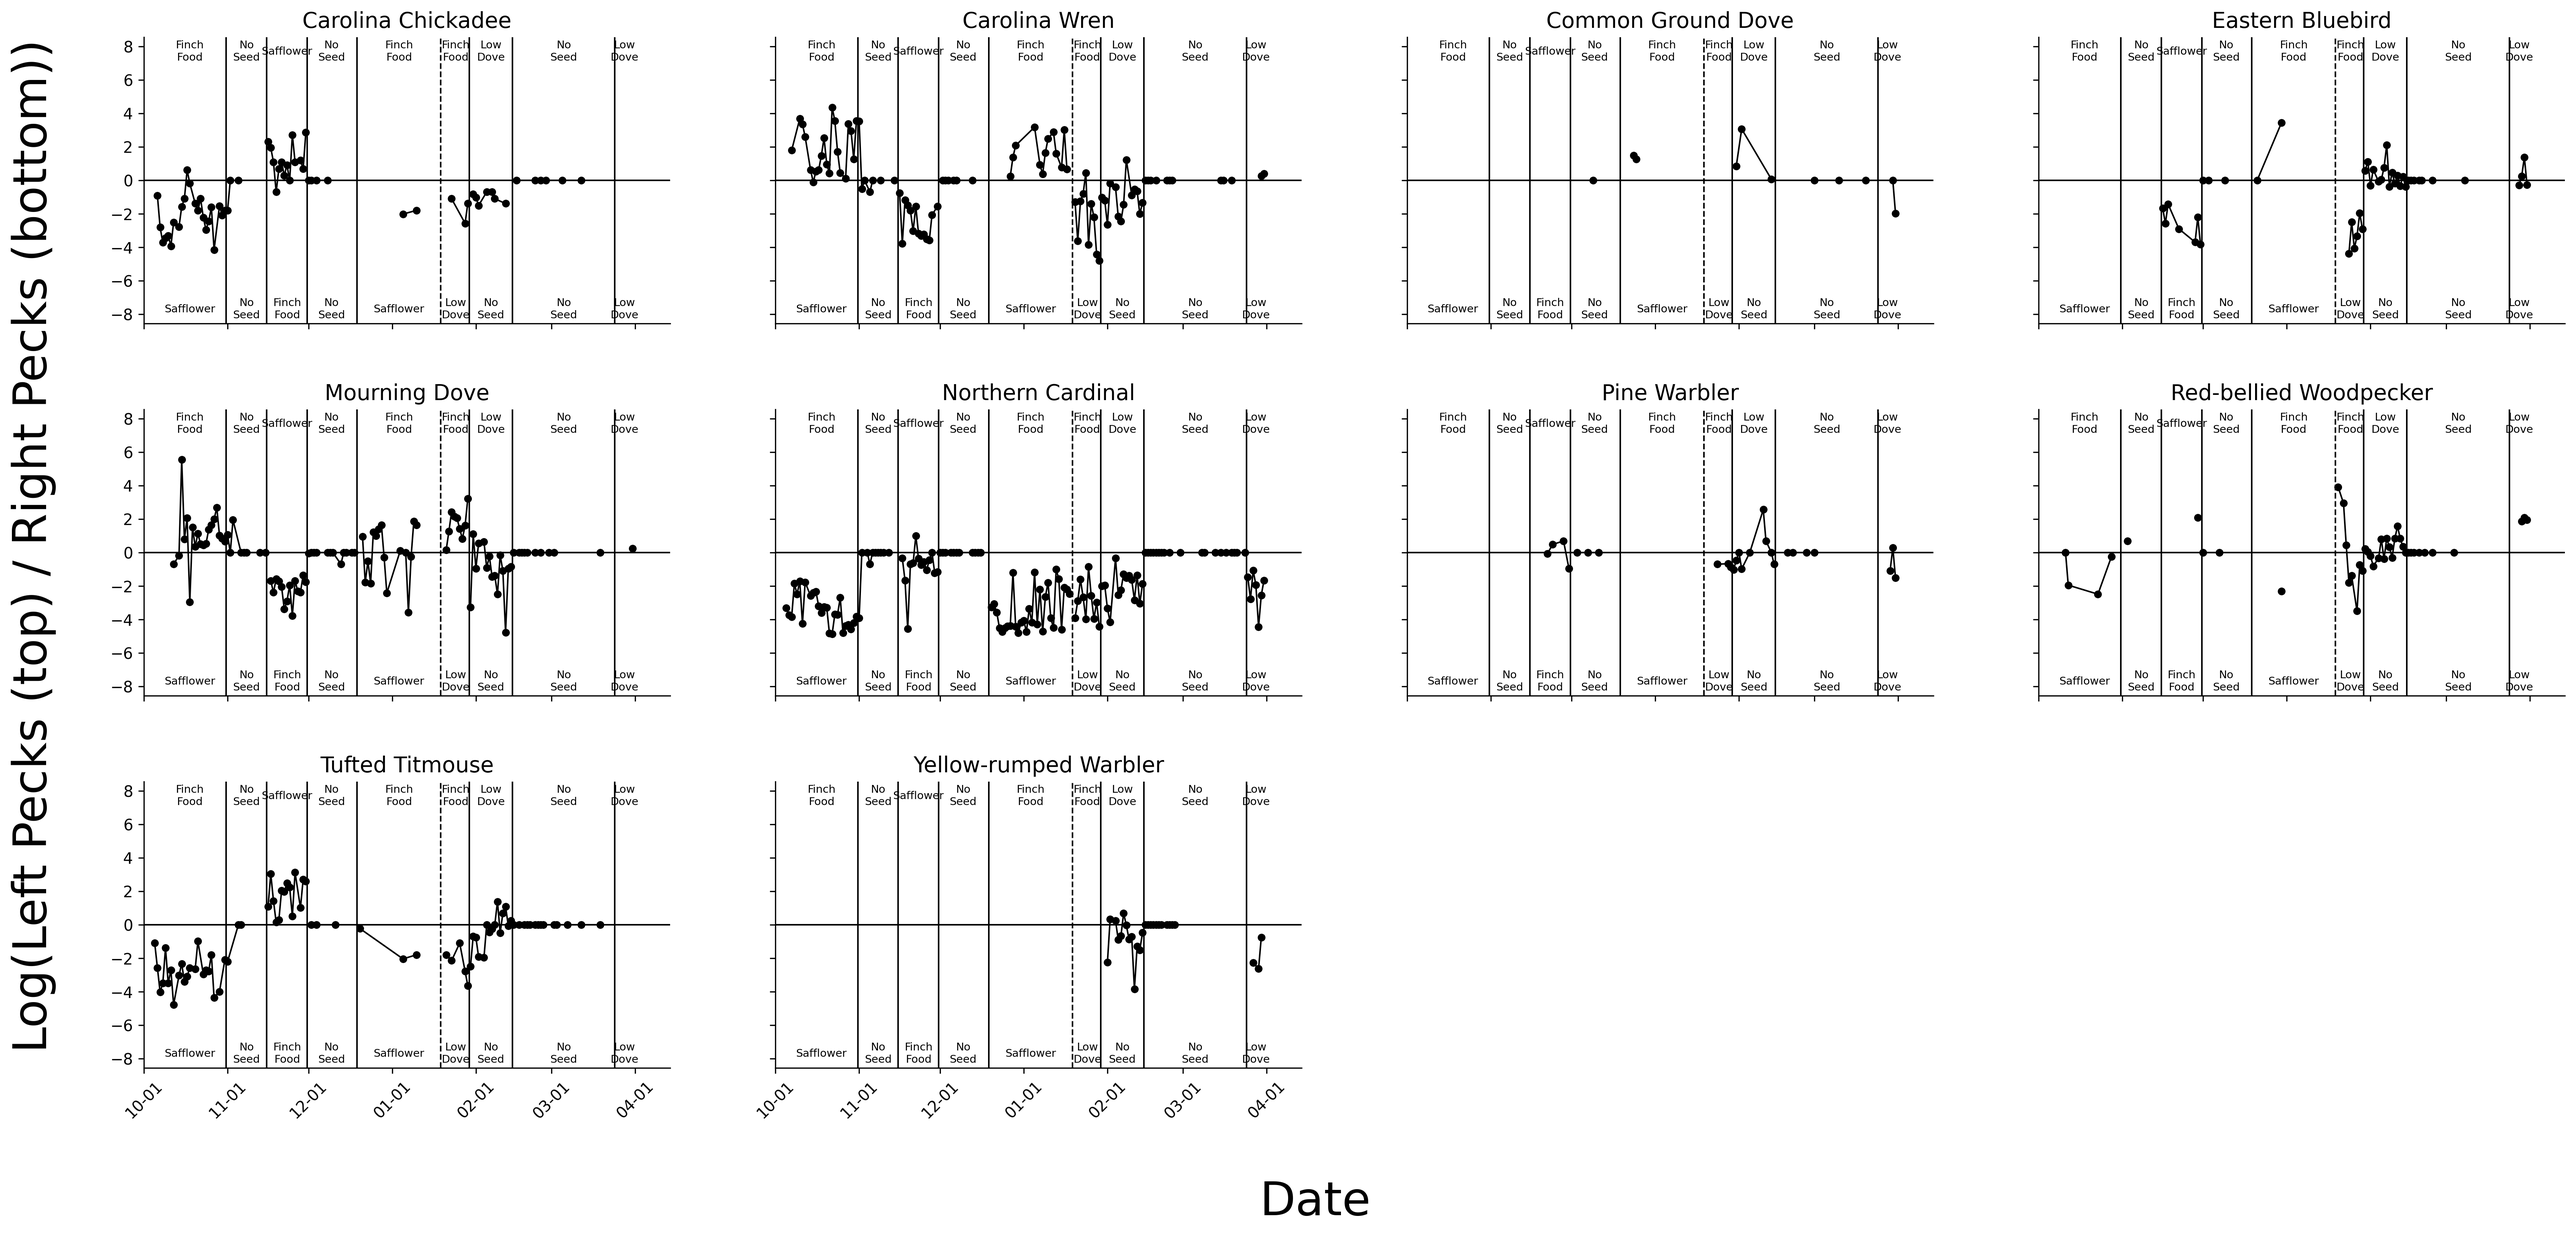
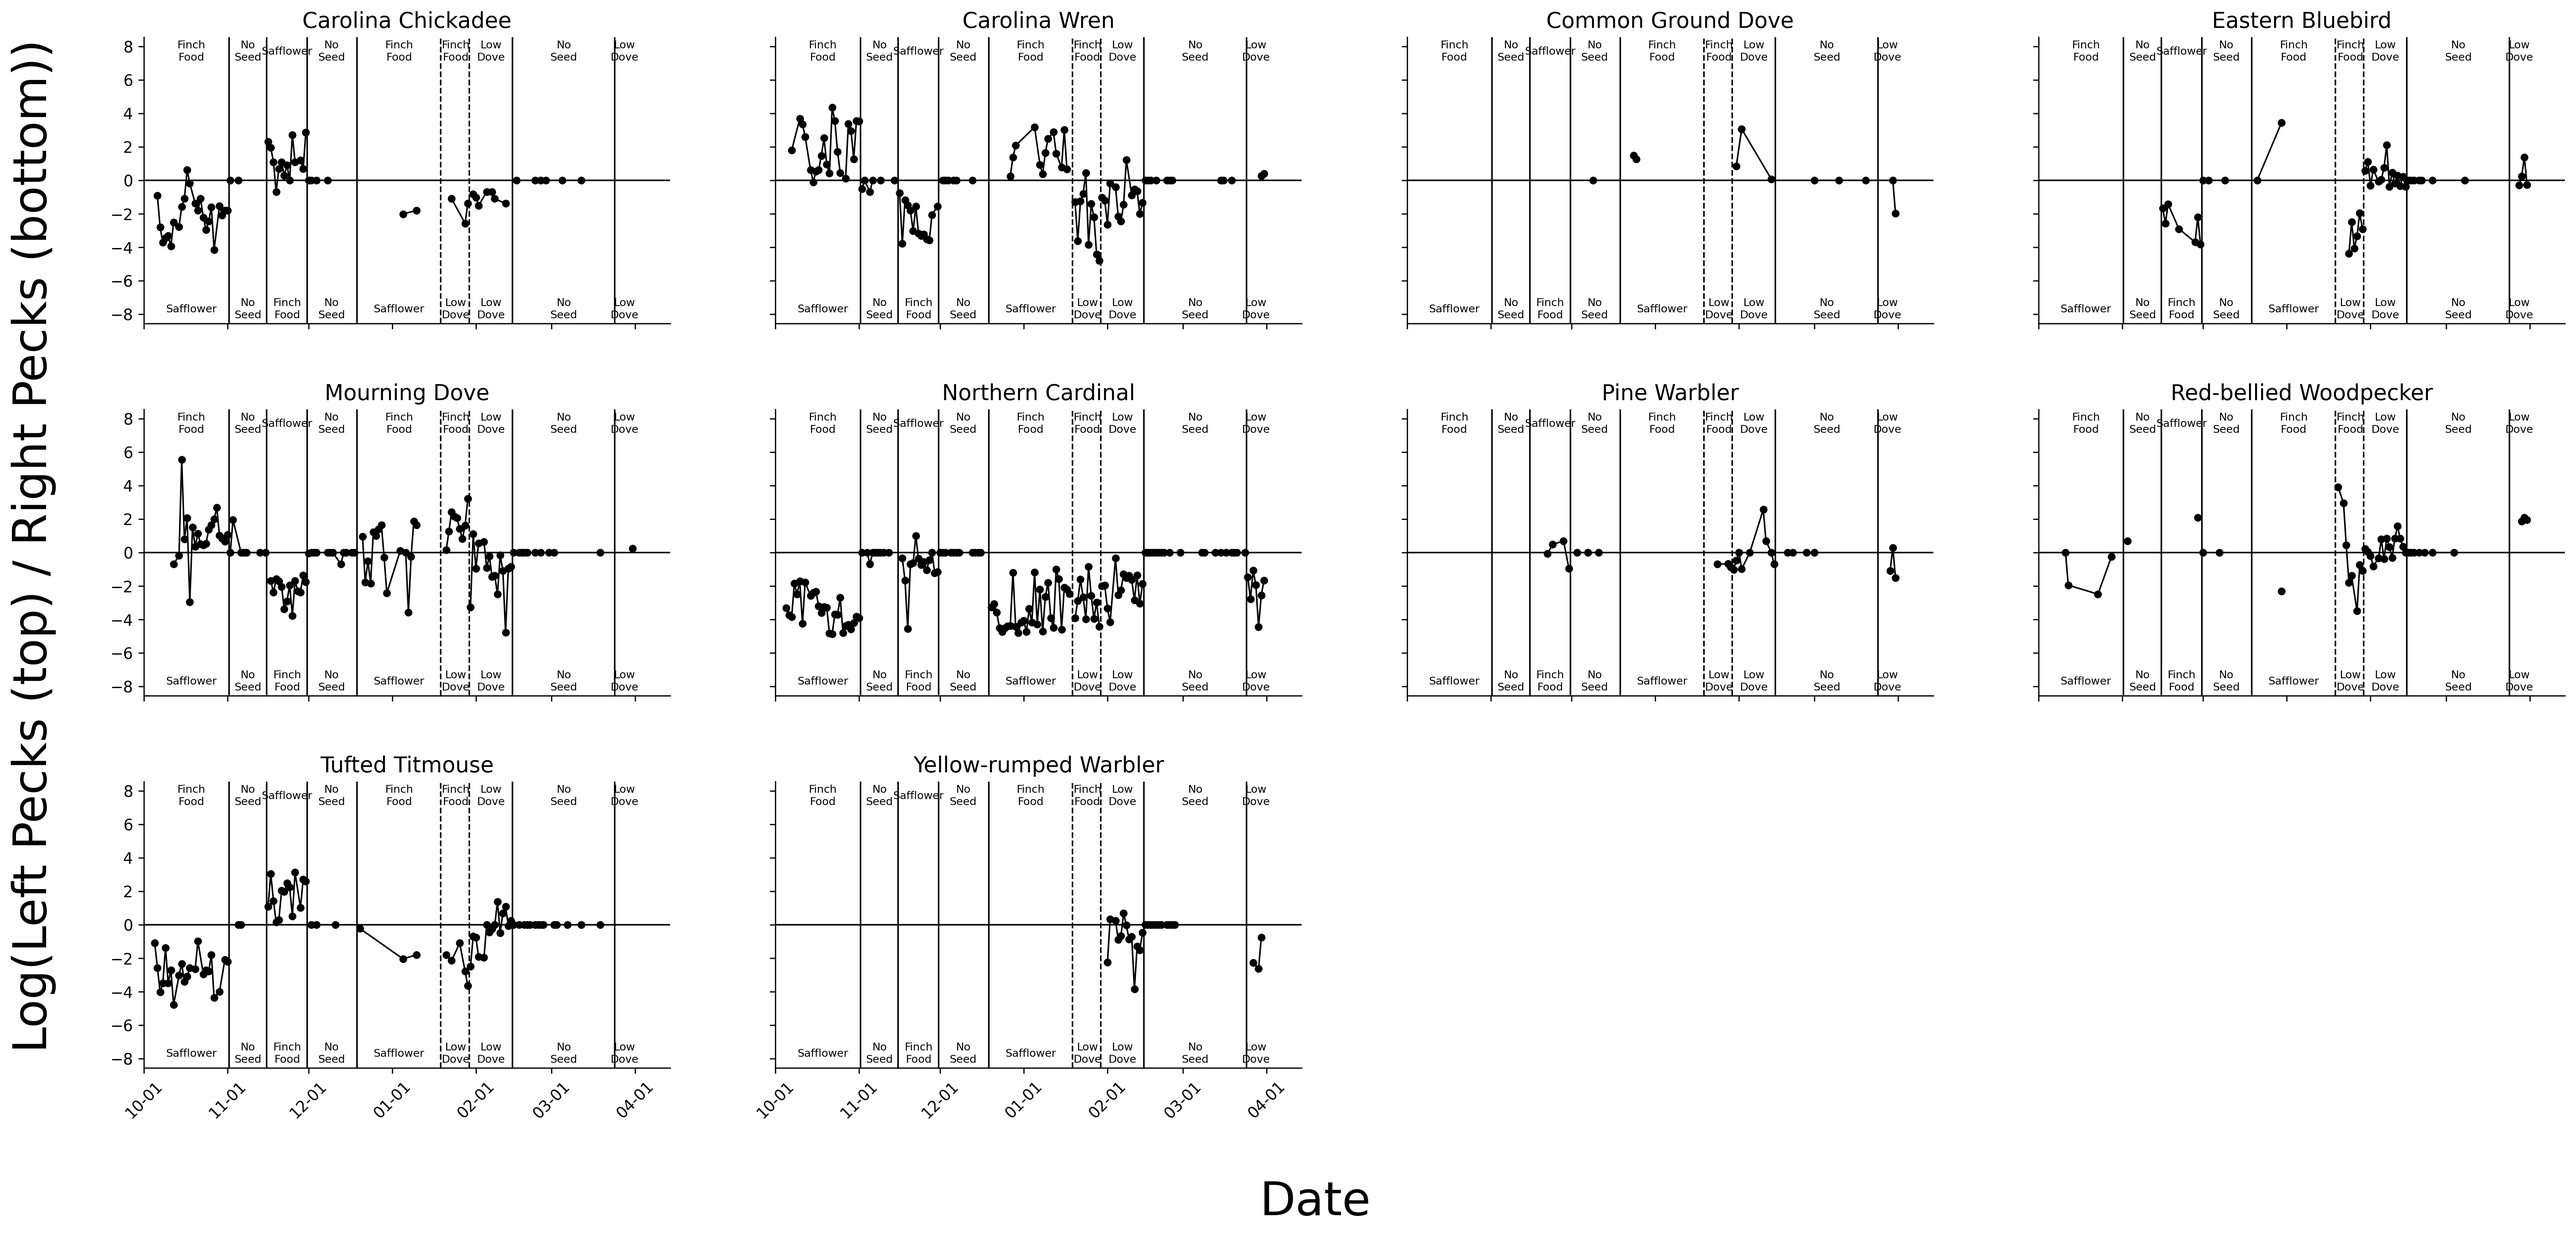
Derive Jacksonville seed-preference phases dynamically from phase_change_data.csv
Phases, midpoints, top/bottom labels, and transition line styles are now
computed from the canonical phase_change_data.csv and the LeftSeed/RightSeed
columns in raw_data instead of hardcoded boundaries. New Jacksonville phases
appear in the plot automatically once added to the CSV.

Also corrects the 2026-01-30 phase label, which was hardcoded as
"Low Dove / No Seed" but is actually "Low Dove / Low Dove" per the CSV
("Low Dove Mix (Both Sides)") and the raw seed data; the F->G transition
now renders dashed (food->food) accordingly.

diff --git a/scripts_notebooks/one_site_analytics.py b/scripts_notebooks/one_site_analytics.py
@@ -27,7 +27,32 @@ from dotenv import load_dotenv
 # ---------------------------------
 RAW_DATA_CSV = '../data/raw_data_all_locations.csv'
 BIRDCAST_PARQUET = '../data/birdcast_data.parquet'
+PHASE_CHANGES_CSV = '../data/phase_change_data.csv'
+SITE_SHEET = 'jacksonville_fl_32259'
+SITE_PHASE_LOCATION = 'Jacksonville, FL'
 load_dotenv()
+
+# Map raw seed strings to short two-line plot labels
+SEED_LABELS = {
+    'Special Finch Food': 'Finch\nFood',
+    'Golden Safflower': 'Safflower',
+    'Sunflower, Safflower, Mealworm, Peanuts': 'Low\nDove',
+}
+NO_SEED_LABEL = 'No\nSeed'
+
+
+def label_for_seed(seed):
+    if seed is None or (isinstance(seed, float) and pd.isna(seed)):
+        return NO_SEED_LABEL
+    return SEED_LABELS.get(seed, str(seed))
+
+
+def dominant_seed(series):
+    """Return the most common known seed value in a phase, or None if all missing."""
+    known = series[series.isin(SEED_LABELS.keys())]
+    if len(known) > 0:
+        return known.mode().iloc[0]
+    return None
 
 # Create dashboard output directory
 DASHBOARD_DIR = '../docs/dashboard_plots'
@@ -70,9 +95,23 @@ def save_plot_for_dashboard(fig, filename, title, description=""):
 # ---------------------------------
 print("Loading data...")
 raw_data = pd.read_csv(RAW_DATA_CSV)
-raw_data = raw_data[raw_data['source_sheet'] == 'jacksonville_fl_32259']
+raw_data = raw_data[raw_data['source_sheet'] == SITE_SHEET]
 raw_data = raw_data.dropna(subset=['RightPecks'])
 raw_data['Date'] = pd.to_datetime(raw_data['Date'])
+
+# Load phase changes for this site (canonical source of truth)
+print("Loading phase changes...")
+phase_changes_all = pd.read_csv(PHASE_CHANGES_CSV)
+phase_changes_all['LocationOfChange'] = phase_changes_all['LocationOfChange'].astype(str).str.strip()
+site_phase_changes = phase_changes_all[
+    phase_changes_all['LocationOfChange'] == SITE_PHASE_LOCATION
+].copy()
+site_phase_changes['DateChangeStarted'] = pd.to_datetime(
+    site_phase_changes['DateChangeStarted'], errors='coerce'
+)
+phase_boundaries = sorted(
+    pd.to_datetime(site_phase_changes['DateChangeStarted'].dropna().unique())
+)
 
 # ---------------------------------
 # Peck data preparation
@@ -94,84 +133,48 @@ peck_data['log_ratio_left_right'] = np.log(peck_data['left_pecks'] / peck_data['
 print("Generating seed preference plot...")
 peck_data['Date'] = pd.to_datetime(peck_data['Date'])
 
-boundary1 = pd.to_datetime('2025-11-01')
-boundary2 = pd.to_datetime('2025-11-16')
-boundary3 = pd.to_datetime('2025-12-01')
-boundary4 = pd.to_datetime('2025-12-20')
-boundary5 = pd.to_datetime('2026-01-20')
-boundary6 = pd.to_datetime('2026-01-30')
-boundary7 = pd.to_datetime('2026-02-15')
-boundary8 = pd.to_datetime('2026-03-25')
+# Build phases dynamically from phase_change_data.csv.
+# Each phase spans [phase_start, next_phase_start) and is annotated with
+# the dominant LeftSeed/RightSeed actually observed in raw_data for that window.
+data_min = peck_data['Date'].min()
+data_max = peck_data['Date'].max()
 
-# Global midpoints for phase-change lines (using all data)
-prev1 = peck_data.loc[peck_data['Date'] < boundary1, 'Date'].max()
-next1 = peck_data.loc[peck_data['Date'] >= boundary1, 'Date'].min()
-mid1 = prev1 + (next1 - prev1) / 2
+phase_starts = [data_min] + [b for b in phase_boundaries if data_min < b <= data_max]
+phase_ends = phase_starts[1:] + [data_max + pd.Timedelta(days=1)]
 
-prev2 = peck_data.loc[peck_data['Date'] < boundary2, 'Date'].max()
-next2 = peck_data.loc[peck_data['Date'] >= boundary2, 'Date'].min()
-mid2 = prev2 + (next2 - prev2) / 2
+phases = []
+for start, end in zip(phase_starts, phase_ends):
+    window = raw_data[(raw_data['Date'] >= start) & (raw_data['Date'] < end)]
+    if window.empty:
+        continue
+    actual_first = window['Date'].min()
+    actual_last = window['Date'].max()
+    phases.append({
+        'start': start,
+        'end': end,
+        'first_date': actual_first,
+        'last_date': actual_last,
+        'mid': actual_first + (actual_last - actual_first) / 2,
+        'left_label': label_for_seed(dominant_seed(window['LeftSeed'])),
+        'right_label': label_for_seed(dominant_seed(window['RightSeed'])),
+    })
 
-prev3 = peck_data.loc[peck_data['Date'] < boundary3, 'Date'].max()
-next3 = peck_data.loc[peck_data['Date'] >= boundary3, 'Date'].min()
-mid3 = prev3 + (next3 - prev3) / 2
-
-prev4 = peck_data.loc[peck_data['Date'] < boundary4, 'Date'].max()
-next4 = peck_data.loc[peck_data['Date'] >= boundary4, 'Date'].min()
-mid4 = prev4 + (next4 - prev4) / 2
-
-prev5 = peck_data.loc[peck_data['Date'] < boundary5, 'Date'].max()
-next5 = peck_data.loc[peck_data['Date'] >= boundary5, 'Date'].min()
-mid5 = prev5 + (next5 - prev5) / 2
-
-prev6 = peck_data.loc[peck_data['Date'] < boundary6, 'Date'].max()
-next6 = peck_data.loc[peck_data['Date'] >= boundary6, 'Date'].min()
-mid6 = prev6 + (next6 - prev6) / 2
-
-prev7 = peck_data.loc[peck_data['Date'] < boundary7, 'Date'].max()
-next7 = peck_data.loc[peck_data['Date'] >= boundary7, 'Date'].min()
-mid7 = prev7 + (next7 - prev7) / 2
-
-prev8 = peck_data.loc[peck_data['Date'] < boundary8, 'Date'].max()
-next8 = peck_data.loc[peck_data['Date'] >= boundary8, 'Date'].min()
-mid8 = prev8 + (next8 - prev8) / 2
-
-# Phase label midpoints
-phase_a_start = peck_data['Date'].min()
-phase_a_end = prev1
-mid_a = phase_a_start + (phase_a_end - phase_a_start) / 2
-
-phase_b_start = next1
-phase_b_end = prev2
-mid_b = phase_b_start + (phase_b_end - phase_b_start) / 2
-
-phase_c_start = next2
-phase_c_end = prev3
-mid_c = phase_c_start + (phase_c_end - phase_c_start) / 2
-
-phase_d_start = next3
-phase_d_end = prev4
-mid_d = phase_d_start + (phase_d_end - phase_d_start) / 2
-
-phase_e_start = next4
-phase_e_end = prev5
-mid_e = phase_e_start + (phase_e_end - phase_e_start) / 2
-
-phase_f_start = next5
-phase_f_end = prev6
-mid_f = (phase_f_start + (phase_f_end - phase_f_start) / 2)
-
-phase_g_start = next6
-phase_g_end = prev7
-mid_g = (phase_g_start + (phase_g_end - phase_g_start) / 2)
-
-phase_h_start = next7
-phase_h_end = prev8
-mid_h = (phase_h_start + (phase_h_end - phase_h_start) / 2)
-
-phase_i_start = next8
-phase_i_end = peck_data['Date'].max()
-mid_i = (phase_i_start + (phase_i_end - phase_i_start) / 2)
+# Transition midpoints + line styles.
+# Solid line: at least one adjacent phase has "No Seed" on either side.
+# Dashed line: transition between two food-only conditions.
+transitions = []
+for i in range(len(phases) - 1):
+    prev_phase = phases[i]
+    next_phase = phases[i + 1]
+    mid = prev_phase['last_date'] + (next_phase['first_date'] - prev_phase['last_date']) / 2
+    involves_no_seed = NO_SEED_LABEL in (
+        prev_phase['left_label'], prev_phase['right_label'],
+        next_phase['left_label'], next_phase['right_label'],
+    )
+    transitions.append({
+        'mid': mid,
+        'linestyle': '-' if involves_no_seed else '--',
+    })
 
 # --- Filter birds with at least 5 days of data ---
 days_per_bird = peck_data.groupby('Bird')['Date'].nunique()
@@ -198,37 +201,26 @@ max_y = max(
 for i, (ax, bird) in enumerate(zip(axes, birds)):
     df = peck_data[peck_data['Bird'] == bird].sort_values('Date')
 
-    # Split by phase
-    data_phase_a = df[df['Date'] < boundary1]
-    data_phase_b = df[(df['Date'] >= boundary1) & (df['Date'] < boundary2)]
-    data_phase_c = df[(df['Date'] >= boundary2) & (df['Date'] < boundary3)]
-    data_phase_d = df[(df['Date'] >= boundary3) & (df['Date'] < boundary4)]
-    data_phase_e = df[(df['Date'] >= boundary4) & (df['Date'] < boundary5)]
-    data_phase_f = df[(df['Date'] >= boundary5) & (df['Date'] < boundary6)]
-    data_phase_g = df[(df['Date'] >= boundary6) & (df['Date'] < boundary7)]
-    data_phase_h = df[(df['Date'] >= boundary7) & (df['Date'] < boundary8)]
-    data_phase_i = df[df['Date'] >= boundary8]
-
-    for phase_data in [data_phase_a, data_phase_b, data_phase_c, data_phase_d,
-                       data_phase_e, data_phase_f, data_phase_g, data_phase_h,
-                       data_phase_i]:
-        ax.plot(phase_data['Date'], phase_data['log_ratio_left_right'],
+    # Plot each phase as a separate line so the trace breaks at boundaries
+    for phase in phases:
+        phase_df = df[(df['Date'] >= phase['start']) & (df['Date'] < phase['end'])]
+        if phase_df.empty:
+            continue
+        ax.plot(phase_df['Date'], phase_df['log_ratio_left_right'],
                 marker='o', markersize=4, markerfacecolor='black',
                 markeredgecolor='black', markeredgewidth=1,
                 linewidth=1, color='black')
 
-    # Phase-change lines: solid for transitions to/from No Seed on any
-    # alternative, dashed for transitions between two food conditions
-    for mid in [mid1, mid2, mid3, mid4, mid6, mid7, mid8]:
-        if pd.notna(mid):
-            ax.axvline(x=mid, color='black', linestyle='-', linewidth=1)
-    if pd.notna(mid5):
-        ax.axvline(x=mid5, color='black', linestyle='--', linewidth=1)
+    # Phase-change lines (solid/dashed determined dynamically above)
+    for transition in transitions:
+        if pd.notna(transition['mid']):
+            ax.axvline(x=transition['mid'], color='black',
+                       linestyle=transition['linestyle'], linewidth=1)
     ax.axhline(y=0, color='black', linewidth=1)
 
     sns.despine(ax=ax, top=True, right=True)
     ax.set_ylim(-max_y, max_y)
-    ax.set_xlim(pd.to_datetime('2025-10-01'), phase_i_end + pd.Timedelta(days=14))
+    ax.set_xlim(data_min - pd.Timedelta(days=4), data_max + pd.Timedelta(days=14))
 
     ax.set_title(bird, fontsize=14)
 
@@ -236,30 +228,16 @@ for i, (ax, bird) in enumerate(zip(axes, birds)):
 for j in range(len(birds), len(axes)):
     axes[j].axis('off')
 
-# Phase labels in the first row
+# Phase labels (top = Left feeder seed, bottom = Right feeder seed)
 y_label_top = max_y * 0.9
 y_label_bottom = -y_label_top
-for ax in axes[:-2]:
-    ax.text(mid_a, y_label_top, 'Finch\nFood', ha='center', va='center', fontsize=7)
-    ax.text(mid_a, y_label_bottom, 'Safflower', ha='center', va='center', fontsize=7)
-    ax.text(mid_b, y_label_top, 'No\nSeed', ha='center', va='center', fontsize=7)
-    ax.text(mid_b, y_label_bottom, 'No\nSeed', ha='center', va='center', fontsize=7)
-    ax.text(mid_c, y_label_top, 'Safflower', ha='center', va='center', fontsize=7)
-    ax.text(mid_c, y_label_bottom, 'Finch\nFood', ha='center', va='center', fontsize=7)
-    ax.text(mid_d, y_label_top, 'No\nSeed', ha='center', va='center', fontsize=7)
-    ax.text(mid_d, y_label_bottom, 'No\nSeed', ha='center', va='center', fontsize=7)
-    ax.text(mid_e, y_label_top, 'Finch\nFood', ha='center', va='center', fontsize=7)
-    ax.text(mid_e, y_label_bottom, 'Safflower', ha='center', va='center', fontsize=7)
-    ax.text(mid_f, y_label_top, 'Finch\nFood', ha='center', va='center', fontsize=7)
-    ax.text(mid_f, y_label_bottom, 'Low\nDove', ha='center', va='center', fontsize=7)
-    ax.text(mid_g, y_label_top, 'Low\nDove', ha='center', va='center', fontsize=7)
-    ax.text(mid_g, y_label_bottom, 'No\nSeed', ha='center', va='center', fontsize=7)
-    if pd.notna(mid_h):
-        ax.text(mid_h, y_label_top, 'No\nSeed', ha='center', va='center', fontsize=7)
-        ax.text(mid_h, y_label_bottom, 'No\nSeed', ha='center', va='center', fontsize=7)
-    if pd.notna(mid_i):
-        ax.text(mid_i, y_label_top, 'Low\nDove', ha='center', va='center', fontsize=7)
-        ax.text(mid_i, y_label_bottom, 'Low\nDove', ha='center', va='center', fontsize=7)
+for ax in axes[:n_birds]:
+    for phase in phases:
+        if pd.notna(phase['mid']):
+            ax.text(phase['mid'], y_label_top, phase['left_label'],
+                    ha='center', va='center', fontsize=7)
+            ax.text(phase['mid'], y_label_bottom, phase['right_label'],
+                    ha='center', va='center', fontsize=7)
 
 # Format x-ticks as MM-DD and rotate 45 degrees
 date_fmt = mdates.DateFormatter('%m-%d')
